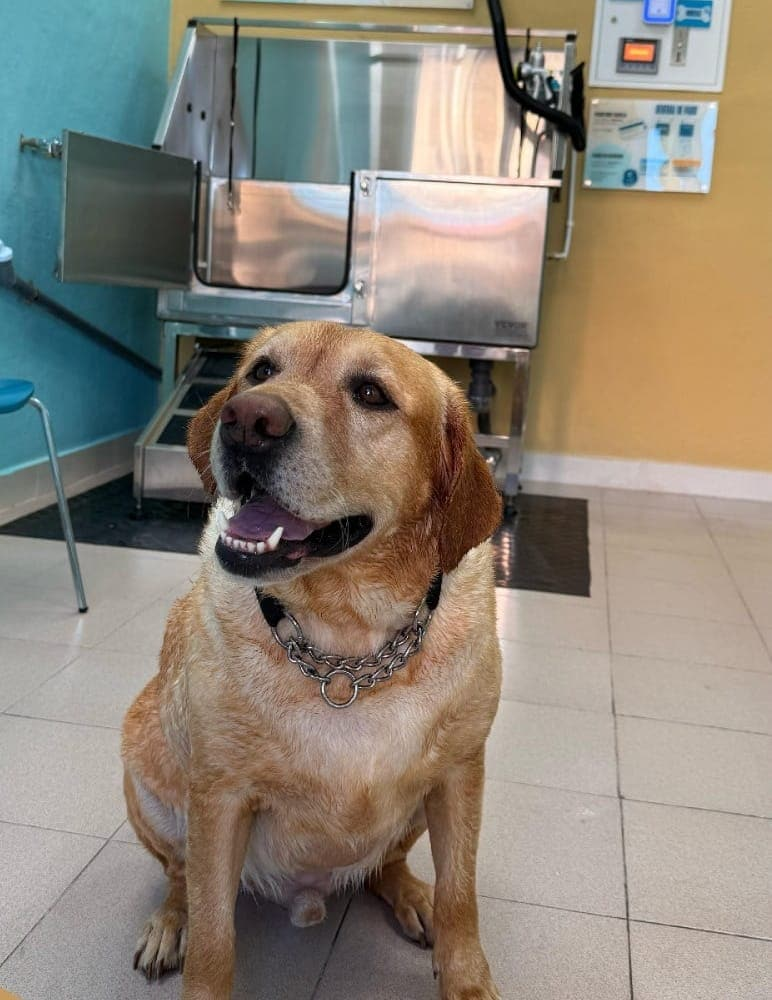
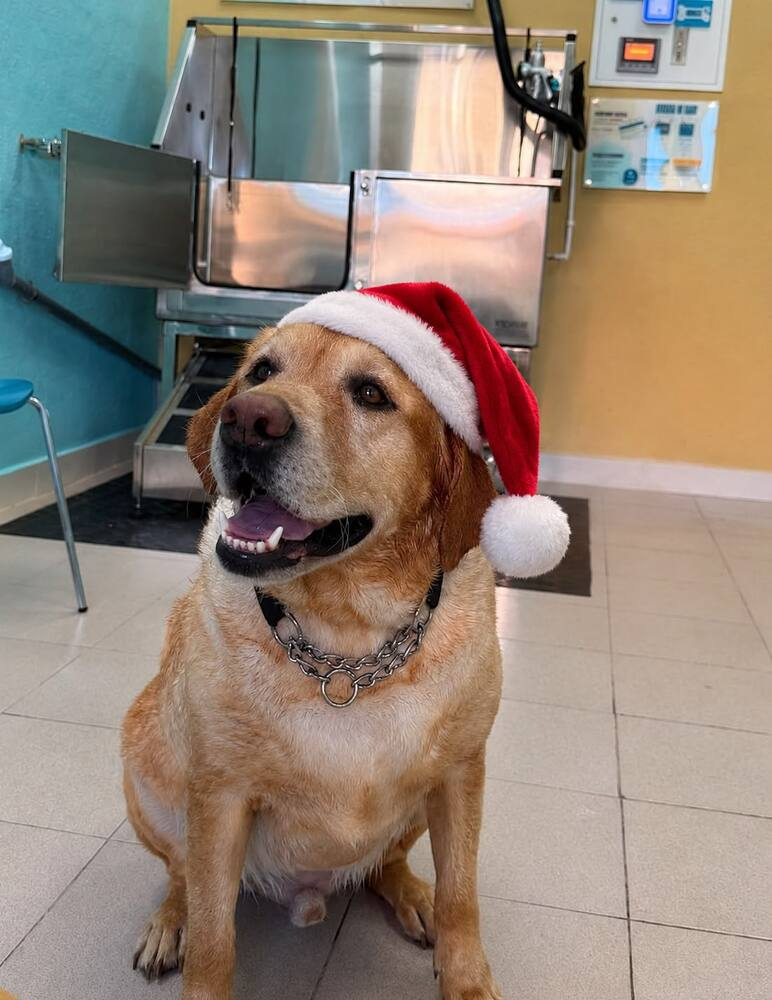
Foto de portada navideña: el labrador con gorro de Papá Noel
Misma escena y mismo encuadre que la de siempre, así que entra en los
772x1000 de la anterior sin recortar nada y sin tocar las medidas del
HTML: no hay salto de maquetación.

La de todo el año queda guardada como labrador-sin-gorro para poder
devolverla en enero. OJO: esto no caduca solo como la capa de Navidad,
hay que cambiarla a mano.

El JPEG va a calidad 72 (89 KB, casi lo que pesaba el anterior). A 80
pesaba 109 KB y al 200 % de zoom no se distingue, y esta es la imagen
que marca el LCP. De todos modos la que recibe casi todo el mundo es la
WebP, 56 KB.

El texto alternativo menciona el gorro: describe lo que hay en la foto.

diff --git a/aqualadra/index.html b/aqualadra/index.html
@@ -202,7 +202,7 @@
       <div class="hero__photo">
         <picture>
           <source srcset="img/labrador.webp" type="image/webp">
-          <img src="img/labrador.jpg" alt="Un labrador feliz en el local de AquaLadra, junto a la bañera de autolavado" width="772" height="1000" fetchpriority="high">
+          <img src="img/labrador.jpg" alt="Un labrador feliz con gorro de Papá Noel en el local de AquaLadra, junto a la bañera de autolavado" width="772" height="1000" fetchpriority="high">
         </picture>
       </div>
       <div class="hero__badge hero__badge--price">
